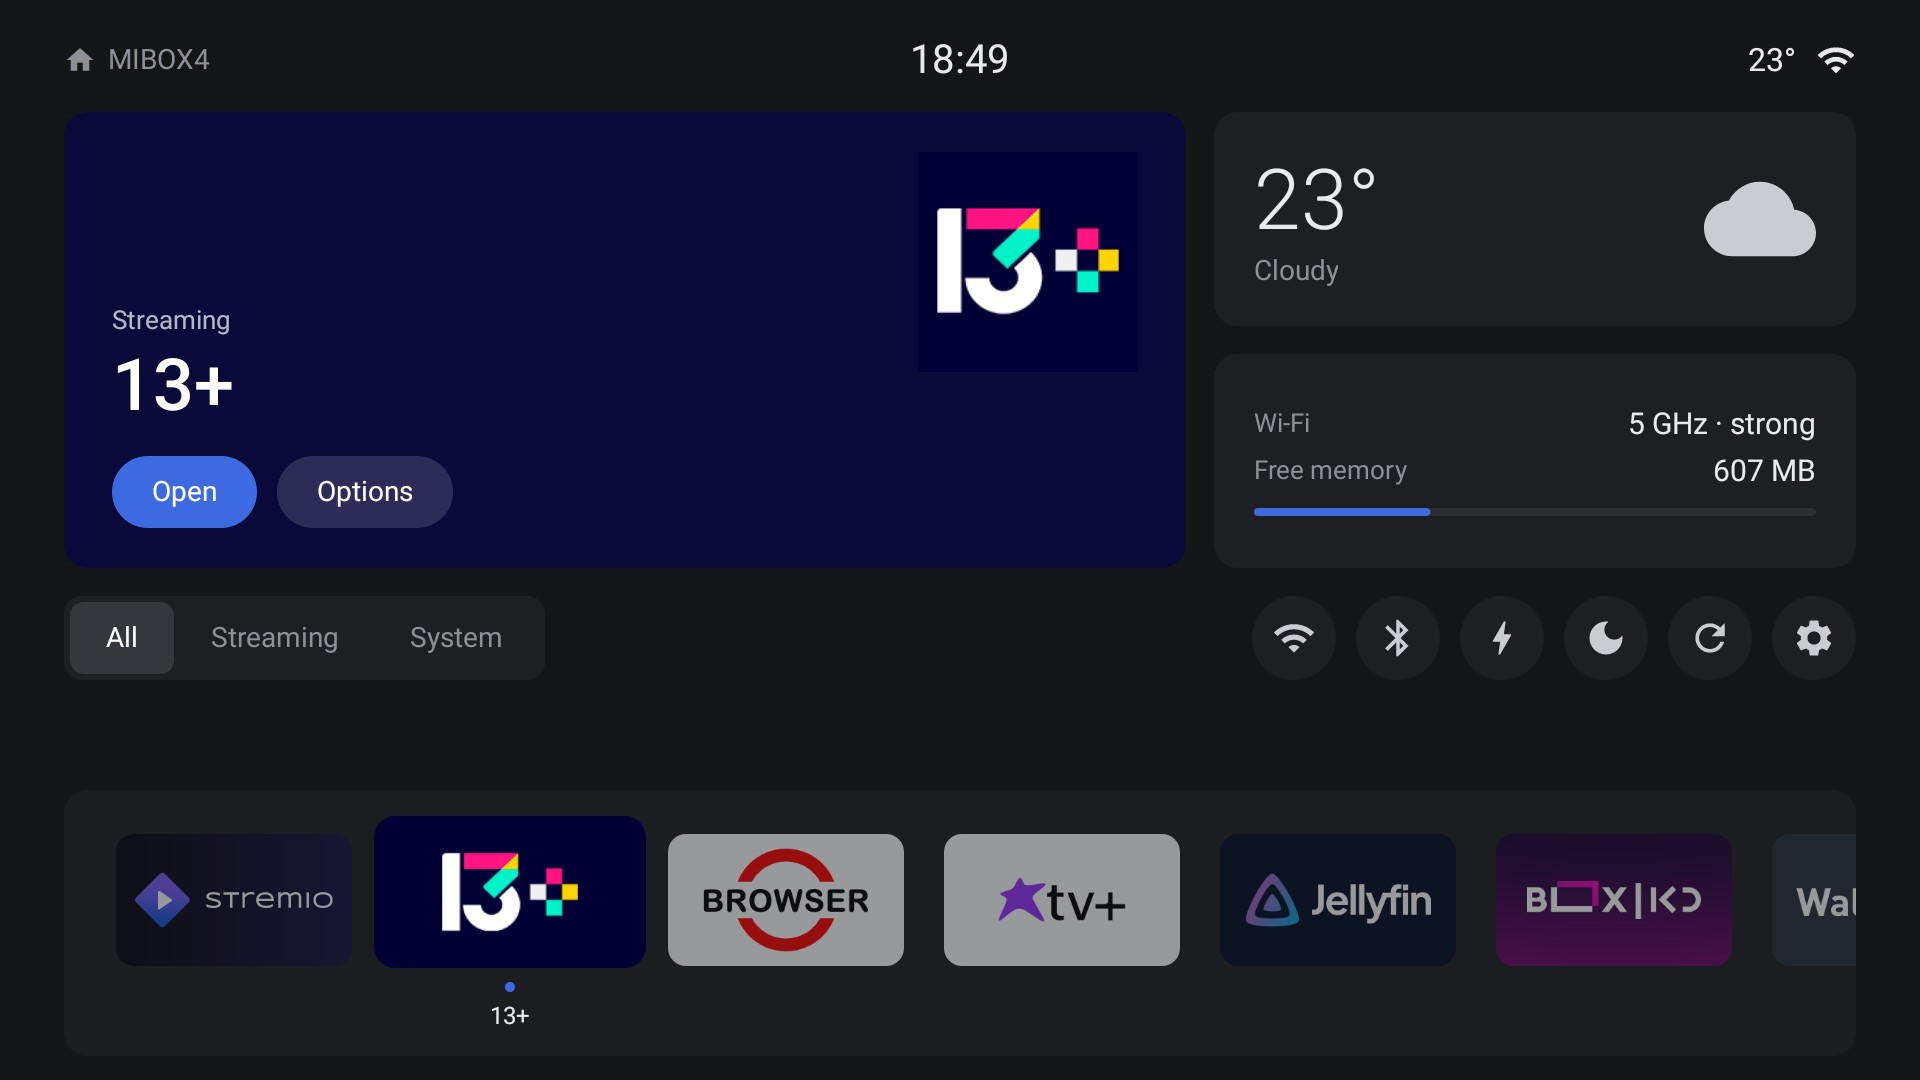
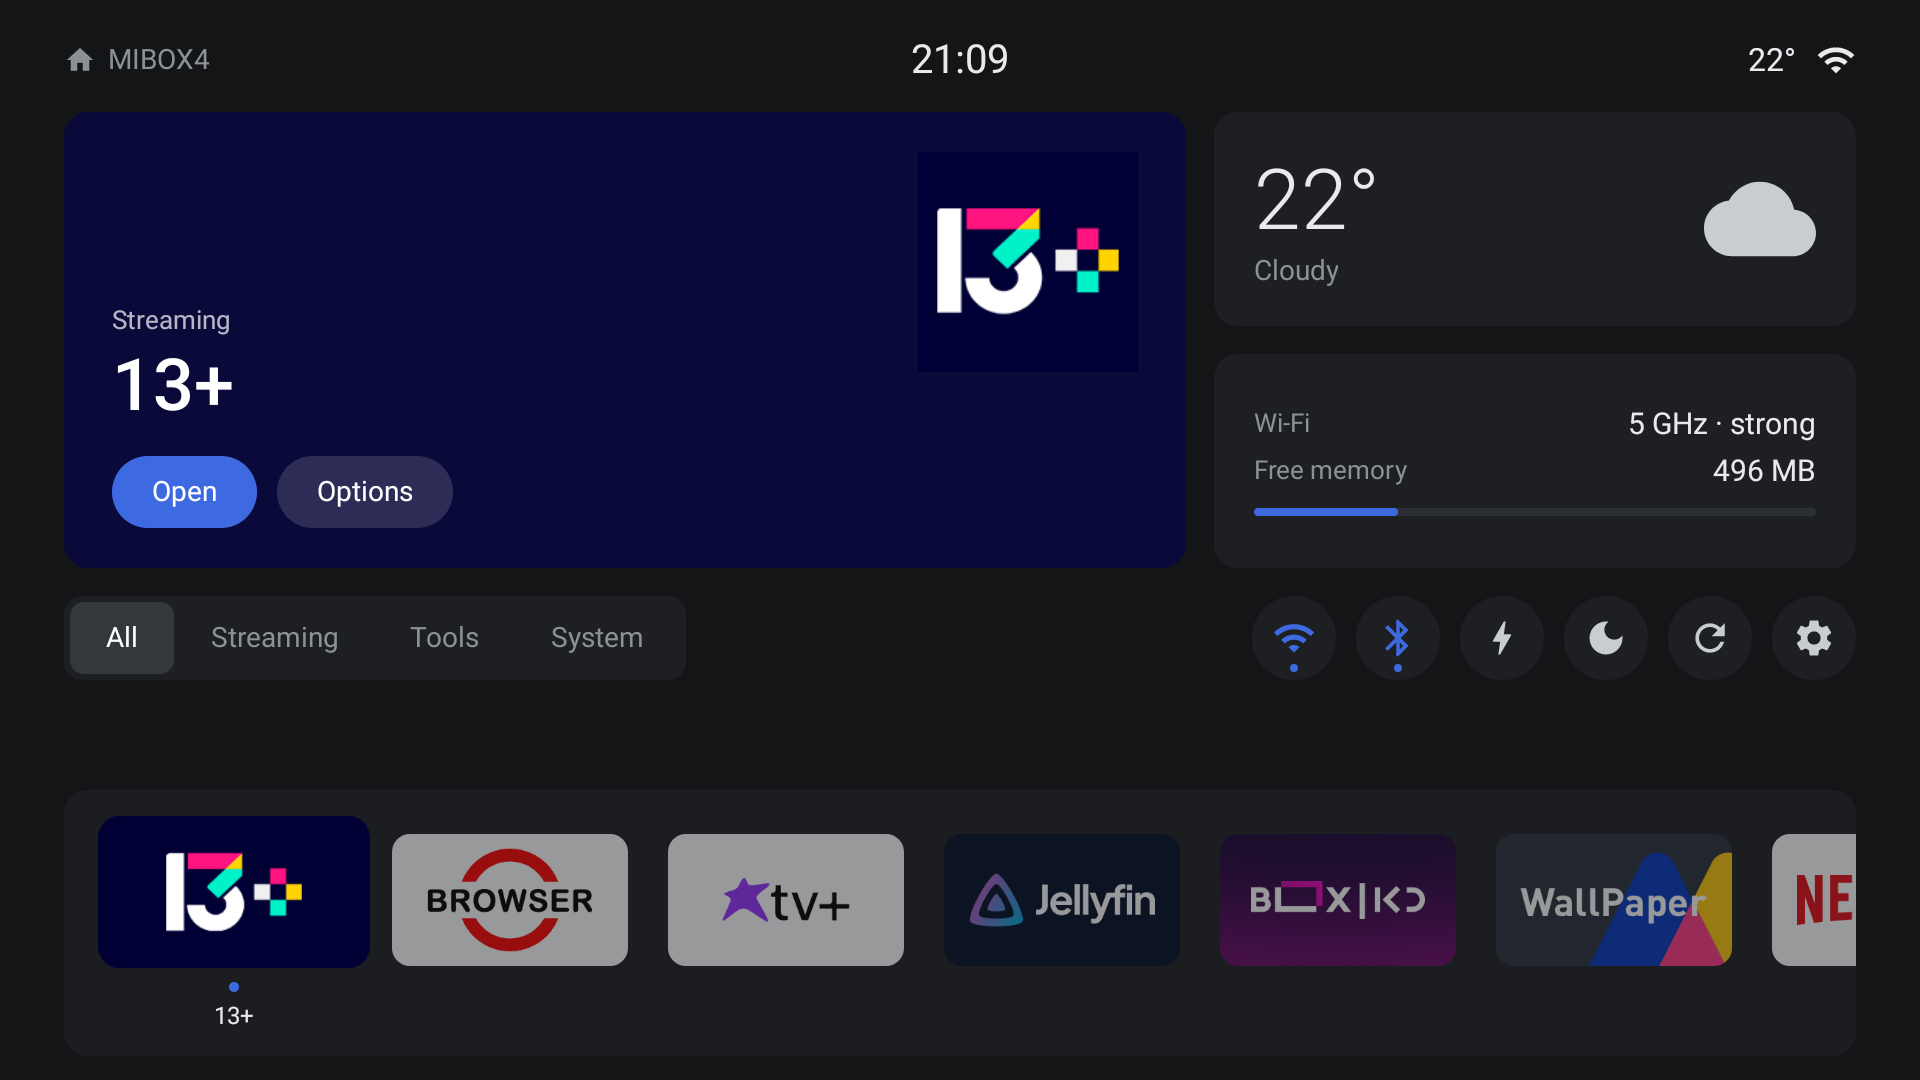
chore: prepare v2.0.0 release
- CHANGELOG: 2.0.0 section.
- README: v2 features, version code rule, RAM numbers, roadmap.
- DESIGN: how to read the RAM number; the accepted settings cost.
- The version code is never lower than major*10000+minor*100+patch,
  so 2.0.0 (20000) installs over v1 and dev builds.
- New home screenshot (city name removed).

diff --git a/README.md b/README.md
@@ -11,8 +11,11 @@ A fast, minimal Android TV home launcher with a Tesla-style UI, built for low-RA
 ## Features
 
 - Dock of app tiles with banners, plus a hero area for the focused app
-- Automatic **All / Streaming / System** categories (override per app)
-- Options menu per app (long-press OK, MENU key, or "Options"): move left/right, change category, hide, app info, show hidden apps
+- Categories: All, Streaming, Music, Games, Tools and System by default, sorted automatically. Rename, reorder, delete or add your own in Volt settings. Empty categories are hidden
+- App options in a bottom sheet (long-press OK, MENU key, or "Options"): move, category, hide, app info, show hidden apps, launcher settings
+- Live move mode: Left/Right slides the app through the dock, OK saves, Back cancels
+- Quick controls that show Wi-Fi and Bluetooth state
+- Volt settings screen: weather, categories, home cards, about
 - Status area: clock, Wi-Fi band and signal quality, Ethernet state, free RAM
 - Weather from [Open-Meteo](https://open-meteo.com/) (no API key). You set the city, the unit (°C/°F) and the update interval on the box, in Volt settings, with search or a list of large cities
 - Entirely D-pad driven, with smooth focus animation
@@ -79,7 +82,7 @@ The values are compiled into the APK as `BuildConfig` fields and are never commi
 
 ### Version
 
-The version defaults to `1.0.0` (code `1`). Override with `-PversionName=1.2.3 -PversionCode=12`.
+The version defaults to `2.0.0`. Override with `-PversionName=1.2.3 -PversionCode=12`. The version code is never lower than `major*10000 + minor*100 + patch` (for example 20000 for 2.0.0), so a release always installs over older builds.
 
 ### Signing
 
@@ -155,16 +158,14 @@ docs/               design system and research
 
 ## RAM budget
 
-The launcher targets about 30 MB PSS on the Mi Box 4 (`adb shell dumpsys meminfo io.github.kobiregev.volt`). Tile bitmaps are pre-scaled and kept in a 16 MB LRU cache. Changes that raise memory use need a good reason.
+The launcher targets about 30 MB PSS on the Mi Box 4 (`adb shell dumpsys meminfo io.github.kobiregev.volt`). v2 measures about 29-34 MB in steady state (24 MB right after a start), and about 31-35 MB after a visit to Volt settings. Tile bitmaps are pre-scaled and kept in a 16 MB LRU cache. Changes that raise memory use need a good reason.
 
 ## Roadmap
 
-v2 ideas:
+Ideas after v2:
 
-- Live move mode for the dock
-- User-editable categories
-- Bottom-sheet options instead of AlertDialog
 - Recent apps
+- Upgrade to AGP 9 and Kotlin 2
 
 ## Contributing
 

diff --git a/docs/DESIGN.md b/docs/DESIGN.md
@@ -287,6 +287,15 @@ An in-activity overlay, not a dialog window. Implemented in `Sheet.kt`.
 - **RAM budget: about 30 MB PSS** on the Mi Box 4 (v1 measures 29-30 MB).
   Measure with `adb shell dumpsys meminfo io.github.kobiregev.volt` after each
   visual change. Any feature that adds more than 5 MB needs a reason.
+- **How to read the number.** Home measures about 24 MB right after a start and
+  29-34 MB about a minute later with no input, because the Java heap grows
+  between garbage collections. Compare steady-state values, not start values.
+- **Known cost: the settings screen.** After a visit to Volt settings, home
+  stays at about 31-35 MB (the heap grew for the settings views, the TV
+  keyboard and the city search, and ART does not give the pages back while home
+  stays in front). It drops when the process restarts. The owner accepted this
+  on 2026-10-18 because settings are opened rarely. Do not add more cost to the
+  settings path; if it grows, move `SettingsActivity` into its own process.
 - Scale every banner or icon down to its display size once and cache it
   (`Visuals.cache`, an LruCache of 16 MB).
 - **Bake corner radii into bitmaps.** View outline clipping does not survive

diff --git a/CHANGELOG.md b/CHANGELOG.md
@@ -5,6 +5,8 @@ The format follows [Keep a Changelog](https://keepachangelog.com/en/1.1.0/) and 
 
 ## [Unreleased]
 
+## [2.0.0] - 2026-10-18
+
 ### Added
 
 - Weather section in Volt settings: choose the city on the box (search with the TV keyboard, or pick from a list of about 50 large cities), the unit (°C or °F) and the update interval (15 min, 30 min, 1 hour). Without a city, the weather card shows "Set a city in Volt settings".
@@ -17,6 +19,7 @@ The format follows [Keep a Changelog](https://keepachangelog.com/en/1.1.0/) and 
 
 ### Changed
 
+- The version code is never lower than major*10000 + minor*100 + patch (20000 for 2.0.0).
 - The `weather.*` keys in `local.properties` are now only the first default. A city chosen in Volt settings replaces them.
 - Category choices of v1 move to the new format on first start.
 - File managers are now sorted into Tools, not System.
